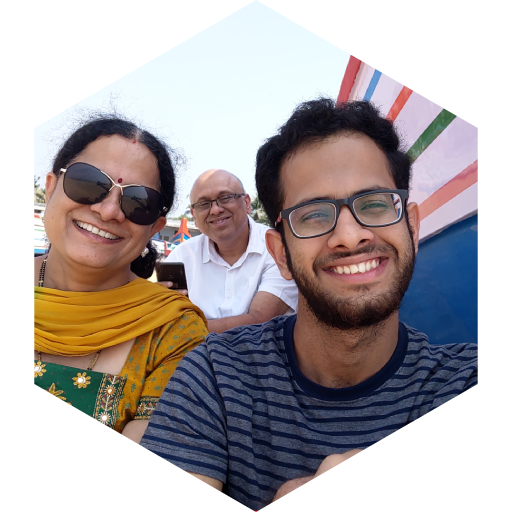
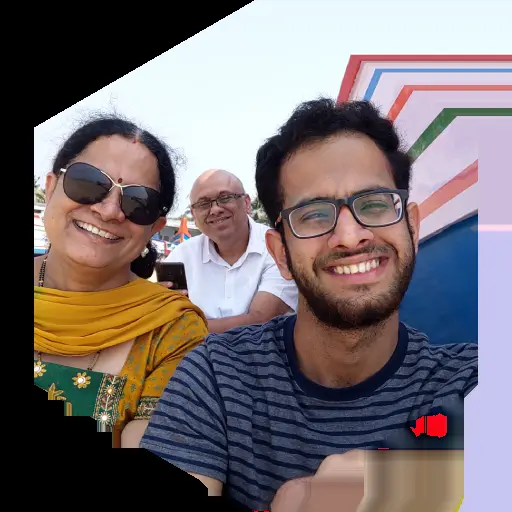
Protect by Fawkes

diff --git a/index.html b/index.html
@@ -15,7 +15,7 @@
     <div id="home" name="home"
         class="bg-near-black min-vh-100 page pv3 pb6 landing tc flex flex-column items-center justify-center">
         <div class="landing-name code-green f3 f1-ns pt3">$</div>
-        <img class="items-stretch pv4 w5 h5" src="./images/dp.webp" alt="display picture" />
+        <img class="items-stretch pv4 w5 h5" src="./images/dp.webp" alt="display picture" title="Protected by Fawkes" />
         <div class="flex flex-column flex-row-ns flex-wrap justify-center white pa3">
             <div class="f5 f3-ns w-auto w-100 ns-w-auto ph3">
                 <a href="#edu">Qualifications</a>
@@ -404,31 +404,31 @@
  <footer class="pv2 ph2 ph5-ns tc w-100 fixed bottom-0 bg-black z-2 flex flex-column">
         <span id="ket" class="white pb2"></span>
         <div> <img id="gmail" class="bg-white br-100 mh1" width=30 height=30 src="./images/gmail.svg"
-    onclick="openSite('rfnqyt?imwz{fxfrgwfsn6>Elrfnq3htr', '5')" onmouseover="addToolTip(this, 'rfnqyt?imwz{fxfrgwfsn6>Elrfnq3htr', '5')"
+    onclick="openSite('uiqt|wBlpz}~i{iujzivq9AHouiqt6kwu', '8')" onmouseover="addToolTip(this, 'uiqt|wBlpz}~i{iujzivq9AHouiqt6kwu', '8')"
     onmouseout="removeToolTip(this)" alt="gmail"></img>
 
 <img id="iiser" class="bg-white br-100 mh1" width=30 height=30 src="./images/iiser.webp"
-    onclick="openSite('vjru}xCv|:A:?<Irr|n{vxqjur7jl7rw', '9')" onmouseover="addToolTip(this, 'vjru}xCv|:A:?<Irr|n{vxqjur7jl7rw', '9')"
+    onclick="openSite('sgorzu@sy7>7<9Fooykxsungro4gi4ot', '6')" onmouseover="addToolTip(this, 'sgorzu@sy7>7<9Fooykxsungro4gi4ot', '6')"
     onmouseout="removeToolTip(this)" alt="iiser"></img>
 
 <img id="github" class="bg-white br-100 mh1" width=30 height=30 src="./images/github.svg"
-    onclick="openSite('p||x{B77oq|p}j6kwu7Lpz}~i[iujzivq', '8')" onmouseover="addToolTip(this, 'p||x{B77oq|p}j6kwu7Lpz}~i[iujzivq', '8')"
+    onclick="openSite('o{{wzA66np{o|i5jvt6Koy|}hZhtiyhup', '7')" onmouseover="addToolTip(this, 'o{{wzA66np{o|i5jvt6Koy|}hZhtiyhup', '7')"
     onmouseout="removeToolTip(this)" alt="github"></img>
 
 <img id="fosstodon" class="bg-white br-100 mh1" width=30 height=30 src="./images/masto.svg"
-    onclick="openSite('p||x{B77nw{{|wlwv6wzo7Hlpz}~i{iujzivq7', '8')" onmouseover="addToolTip(this, 'p||x{B77nw{{|wlwv6wzo7Hlpz}~i{iujzivq7', '8')"
+    onclick="openSite('kwwsv=22irvvwrgrq1ruj2Cgkuxydvdpeudql2', '3')" onmouseover="addToolTip(this, 'kwwsv=22irvvwrgrq1ruj2Cgkuxydvdpeudql2', '3')"
     onmouseout="removeToolTip(this)" alt="fosstodon"></img>
 
 <img id="mastodon" class="bg-white br-100 mh1" width=30 height=30 src="./images/masto.svg"
-    onclick="openSite('lxxtw>33uyfmx1wsgmep2|}~3Dhlvyzeweqfverm3', '4')" onmouseover="addToolTip(this, 'lxxtw>33uyfmx1wsgmep2|}~3Dhlvyzeweqfverm3', '4')"
+    onclick="openSite('q}}y|C88z~kr}6|xlrju78Imq{~j|jvk{jwr8', '9')" onmouseover="addToolTip(this, 'q}}y|C88z~kr}6|xlrju78Imq{~j|jvk{jwr8', '9')"
     onmouseout="removeToolTip(this)" alt="mastodon"></img>
 
 <img id="linkedin" class="bg-white br-100 mh1" width=30 height=30 src="./images/linkedin.png"
-    onclick="openSite('o{{wzA66~~~5spurlkpu5jvt6pu6koy|}h4zhtiyhup4:?@=7?9;i6', '7')" onmouseover="addToolTip(this, 'o{{wzA66~~~5spurlkpu5jvt6pu6koy|}h4zhtiyhup4:?@=7?9;i6', '7')"
+    onclick="openSite('p||x{B776tqvsmlqv6kwu7qv7lpz}~i5{iujzivq5;@A>8@:<j7', '8')" onmouseover="addToolTip(this, 'p||x{B776tqvsmlqv6kwu7qv7lpz}~i5{iujzivq5;@A>8@:<j7', '8')"
     onmouseout="removeToolTip(this)" alt="linkedin"></img>
 
 <img id="orcid" class="bg-white br-100 mh1" width=30 height=30 src="./images/orcid.png"
-    onclick="openSite('myyux?44twhni3twl45555255562;7:929<:<', '5')" onmouseover="addToolTip(this, 'myyux?44twhni3twl45555255562;7:929<:<', '5')"
+    onclick="openSite('kwwsv=22ruflg1ruj23333033340958707:8:', '3')" onmouseover="addToolTip(this, 'kwwsv=22ruflg1ruj23333033340958707:8:', '3')"
     onmouseout="removeToolTip(this)" alt="orcid"></img>
 
 <img id="rescgate" class="bg-white br-100 mh1" width=30 height=30 src="./images/rescgate.ico"

diff --git a/templates/index_template.html b/templates/index_template.html
@@ -15,7 +15,7 @@
     <div id="home" name="home"
         class="bg-near-black min-vh-100 page pv3 pb6 landing tc flex flex-column items-center justify-center">
         <div class="landing-name code-green f3 f1-ns pt3">$</div>
-        <img class="items-stretch pv4 w5 h5" src="./images/dp.webp" alt="display picture" />
+        <img class="items-stretch pv4 w5 h5" src="./images/dp.webp" alt="display picture" title="Protected by Fawkes" />
         <div class="flex flex-column flex-row-ns flex-wrap justify-center white pa3">
             <div class="f5 f3-ns w-auto w-100 ns-w-auto ph3">
                 <a href="#edu">Qualifications</a>
